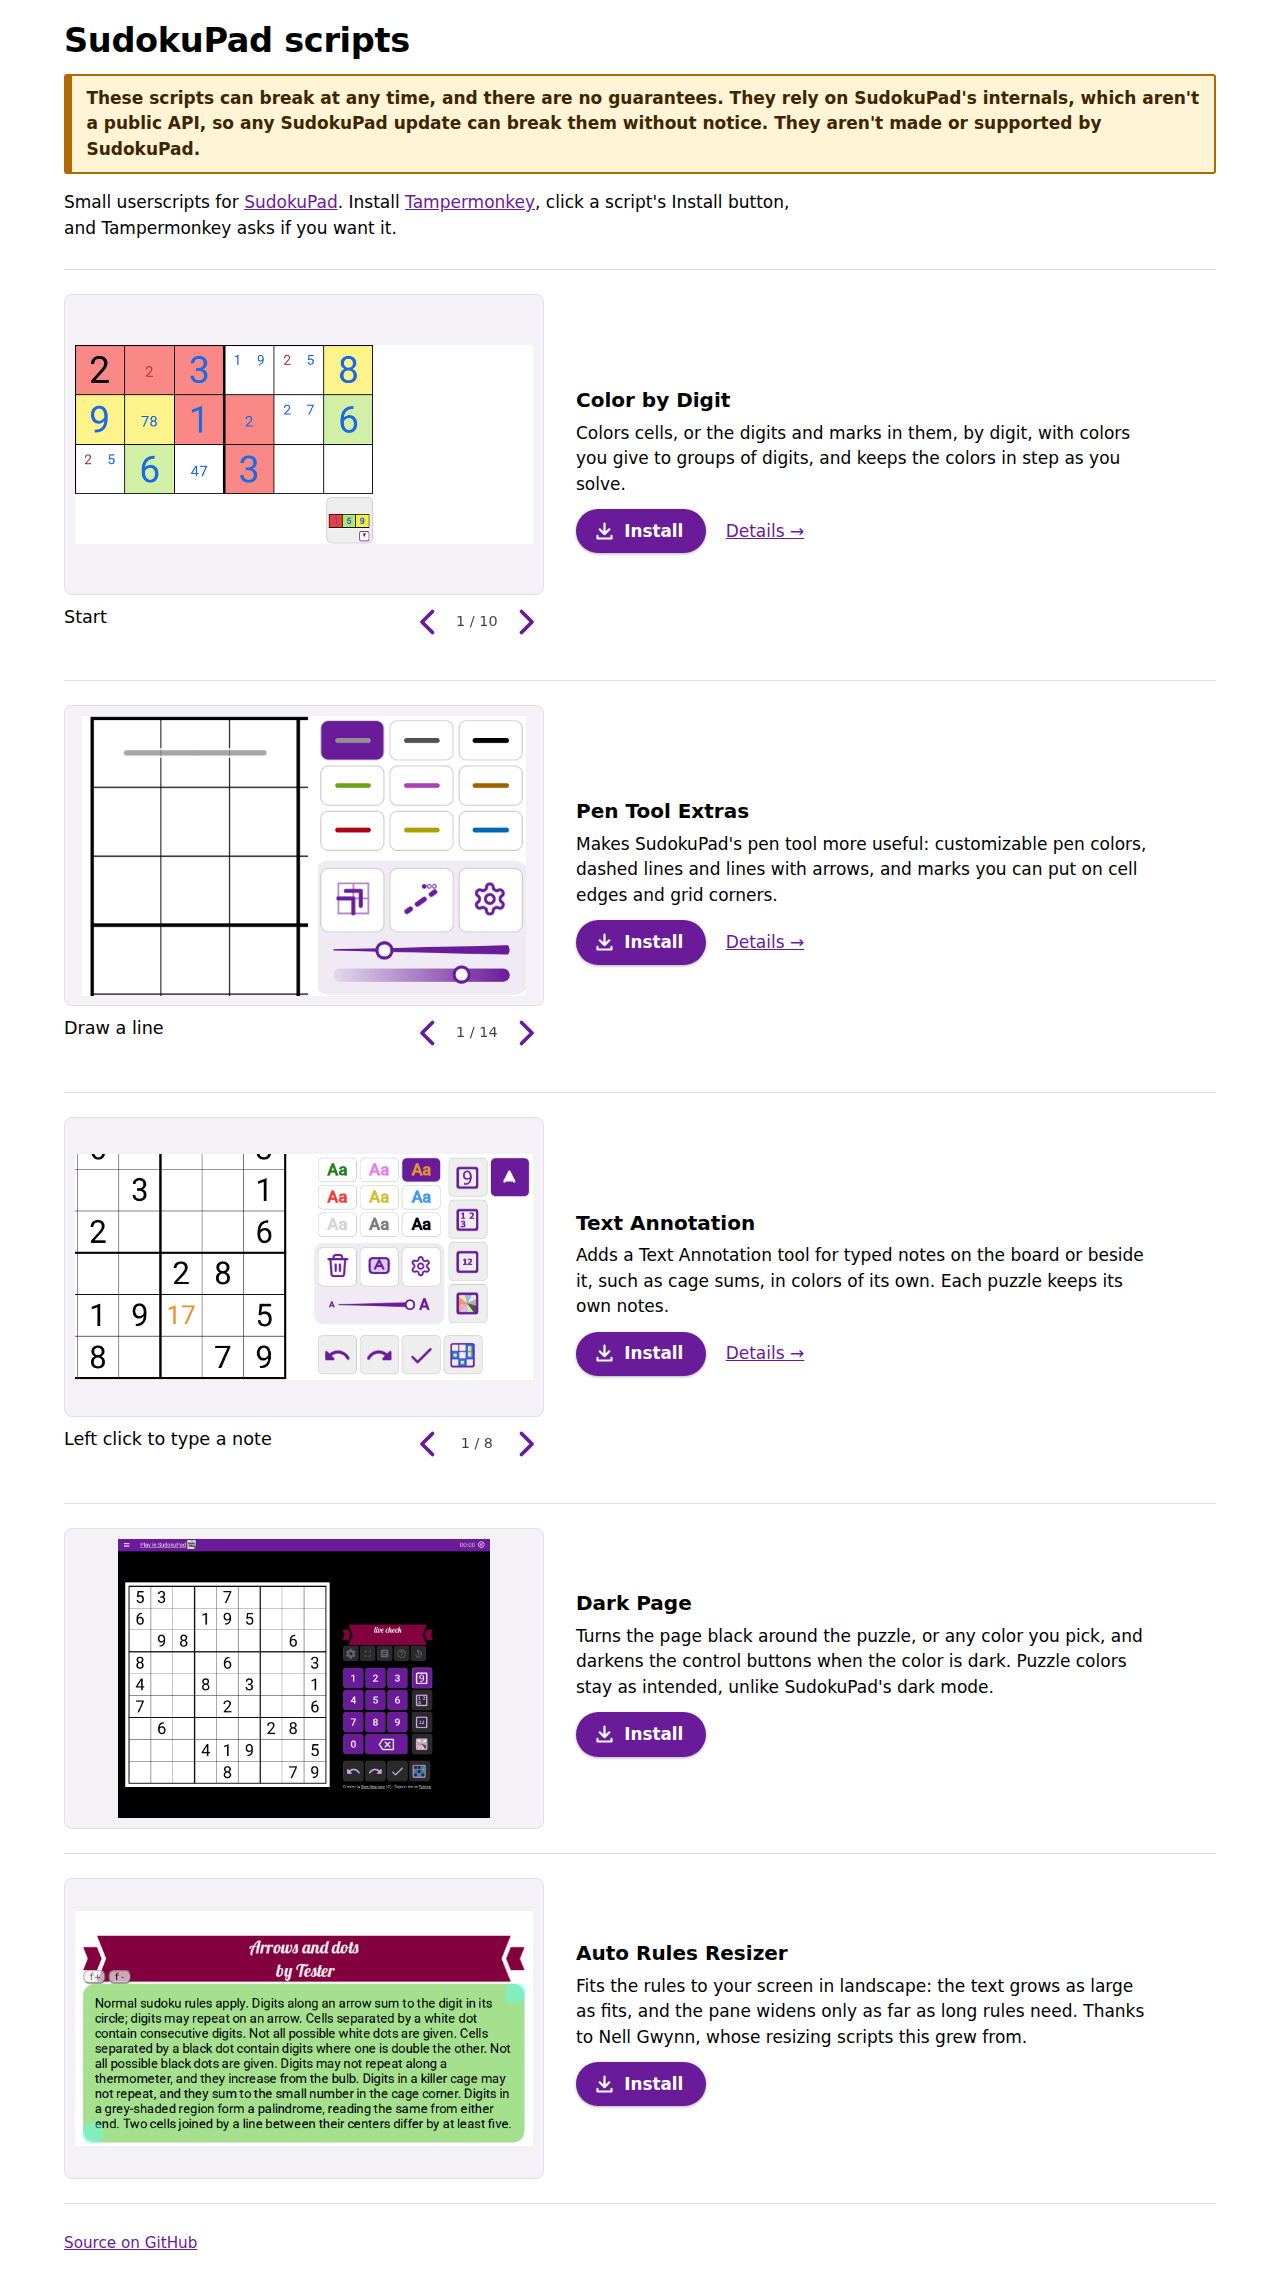
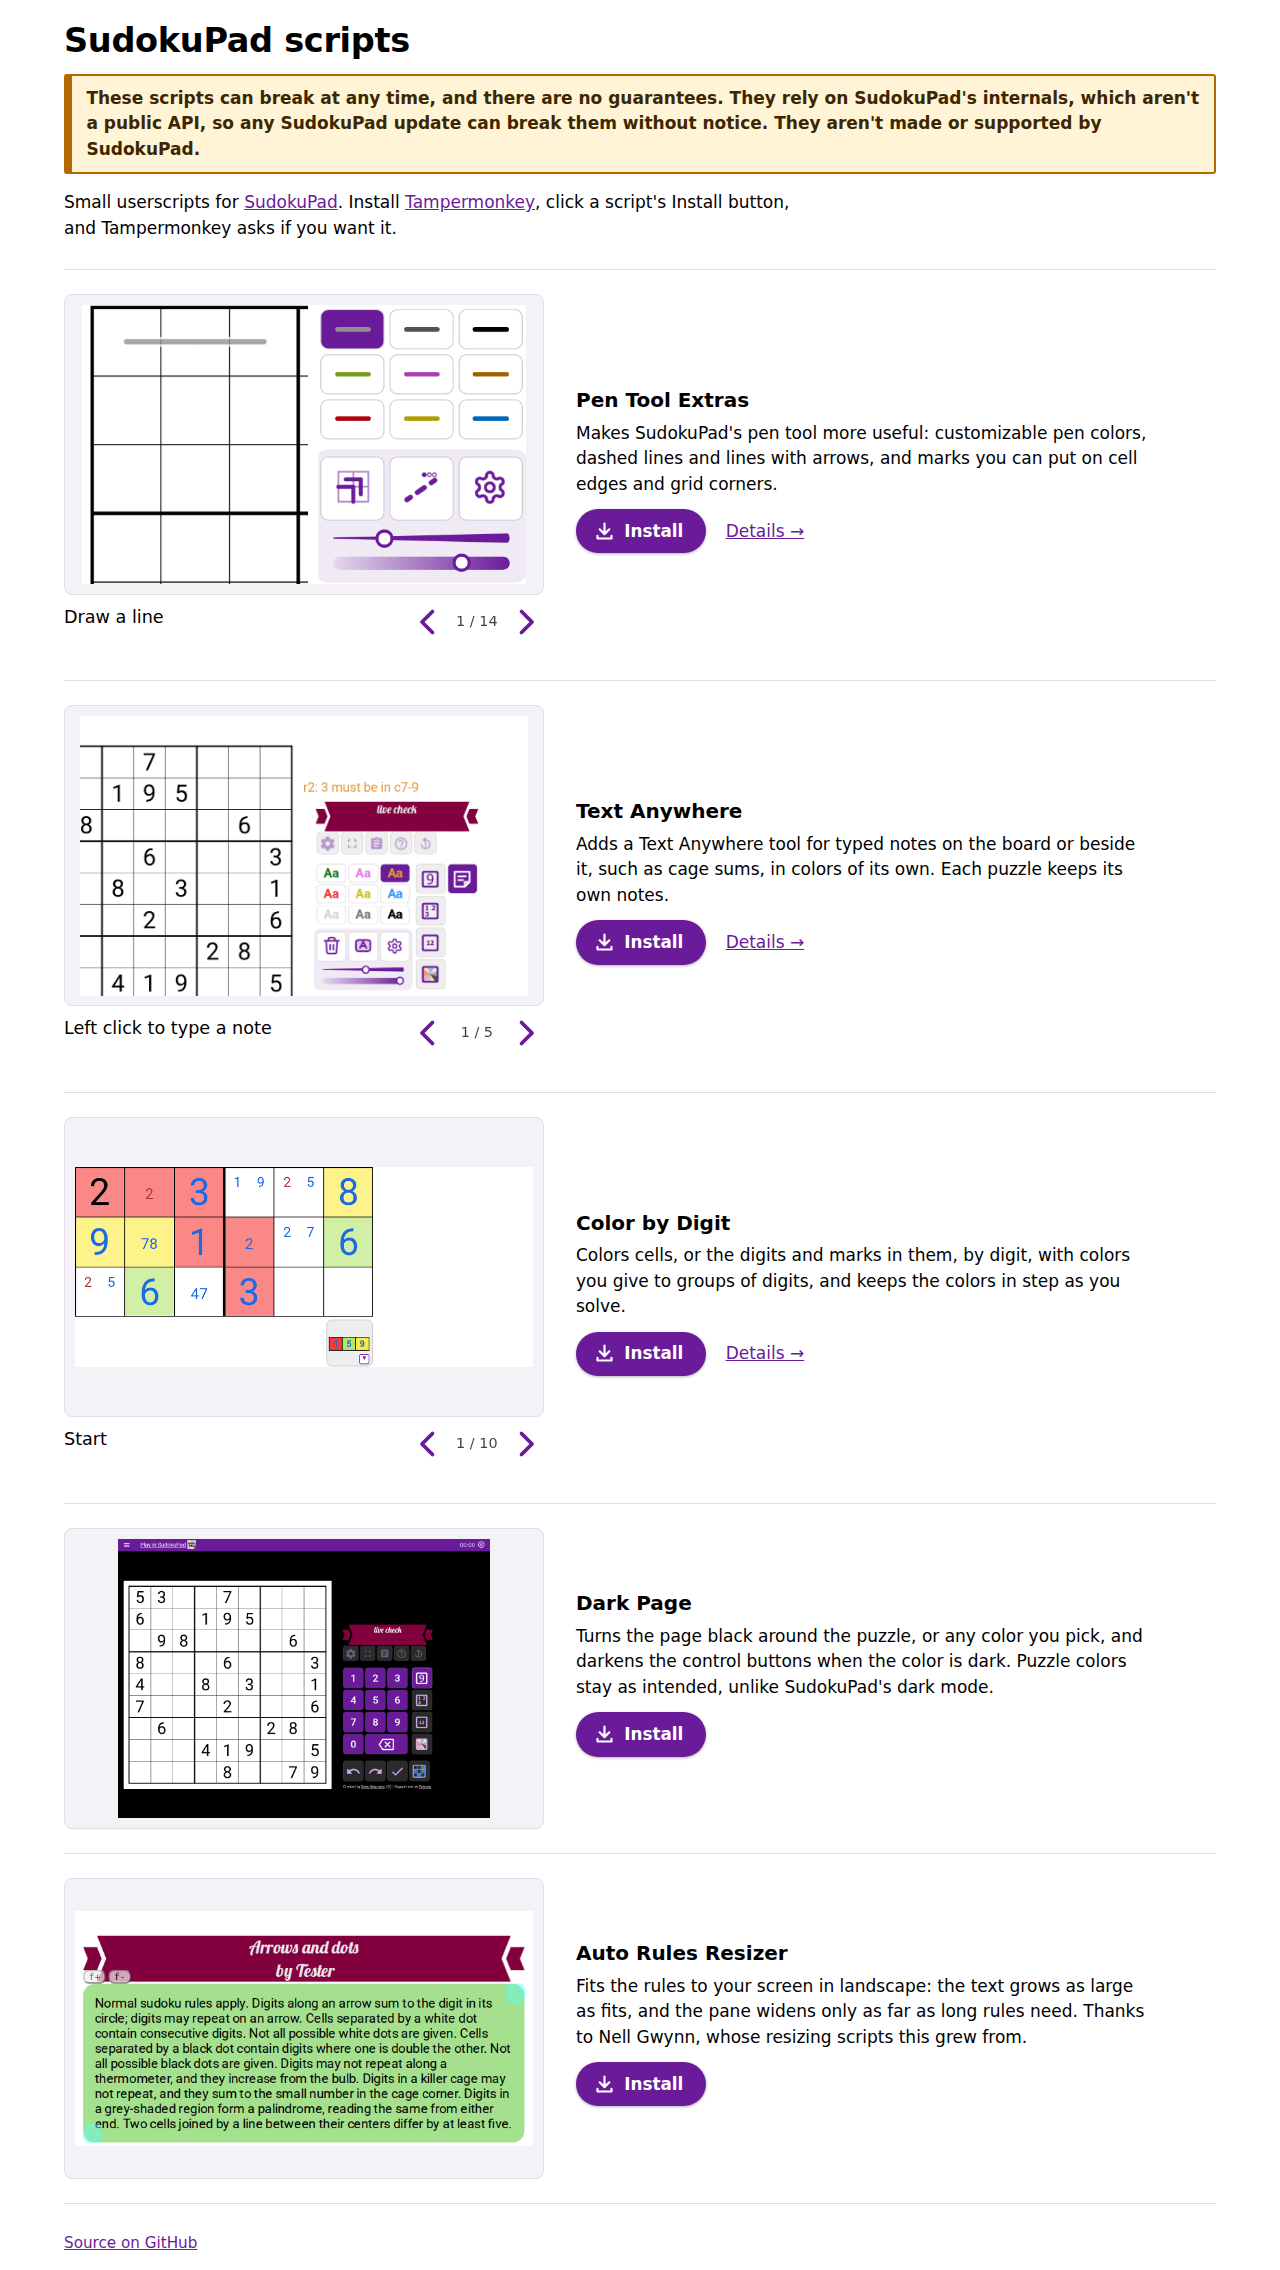
Homepage: Pen Tool Extras and Text Anywhere rows before Color by Digit (#472) (#474)
* Homepage: Pen Tool Extras and Text Anywhere rows before Color by Digit

Move only; each row's content is unchanged. The row-order test lists the new order, and the homepage research picture is retaken.

Closes #472

* Homepage row order: update the spec 359 closing test and the slideshow live test

Closes #472

---------

diff --git a/site/index.html b/site/index.html
@@ -27,41 +27,6 @@
   <section class="row">
     <div class="slideshow">
       <div class="slide-frame">
-        <img class="slide current" src="https://raw.githubusercontent.com/caneff/sudokupad-scripts/main/docs/research/color-by-digit/color-by-digit-slide-1-start.png?v=f6a94da" alt="The two boxes in Cell mode, with the Color by Digit button under them" width="900" height="391">
-        <img class="slide" src="https://raw.githubusercontent.com/caneff/sudokupad-scripts/main/docs/research/color-by-digit/color-by-digit-slide-2-type.png?v=f38cd81" alt="A 1 typed in an empty cell, which fills with the red of its group" width="900" height="391">
-        <img class="slide" src="https://raw.githubusercontent.com/caneff/sudokupad-scripts/main/docs/research/color-by-digit/color-by-digit-slide-3-marks.png?v=031739b" alt="Center marks 7 and 9 typed into the next cell, which fills with the yellow of their group" width="900" height="391">
-        <img class="slide" src="https://raw.githubusercontent.com/caneff/sudokupad-scripts/main/docs/research/color-by-digit/color-by-digit-slide-4-add.png?v=8175133" alt="A center mark 2 added to the same cell, from another group, so the fill goes" width="900" height="391">
-        <img class="slide" src="https://raw.githubusercontent.com/caneff/sudokupad-scripts/main/docs/research/color-by-digit/color-by-digit-slide-5-digit.png?v=586f108" alt="Digit mode: no cell is filled, digits and marks are in darker shades of their group colors, and the three marks that repeat the given 2 each have a red circle" width="900" height="391">
-        <img class="slide" src="https://raw.githubusercontent.com/caneff/sudokupad-scripts/main/docs/research/color-by-digit/color-by-digit-slide-6-both.png?v=f35be18" alt="Both mode: the cells filled and the digits and marks in darker shades" width="900" height="391">
-        <img class="slide" src="https://raw.githubusercontent.com/caneff/sudokupad-scripts/main/docs/research/color-by-digit/color-by-digit-slide-7-off.png?v=3bd156e" alt="Off mode: the plain boxes" width="900" height="391">
-        <img class="slide" src="https://raw.githubusercontent.com/caneff/sudokupad-scripts/main/docs/research/color-by-digit/color-by-digit-slide-8-menu.png?v=41bdb9f" alt="The profile menu open beside the boxes, listing Entropic, no blue and Modular and Edit profiles" width="900" height="391">
-        <img class="slide" src="https://raw.githubusercontent.com/caneff/sudokupad-scripts/main/docs/research/color-by-digit/color-by-digit-slide-9-modular.png?v=8cf8e46" alt="Modular picked: the boxes recolored in its orange, pink and yellow groups" width="900" height="391">
-        <img class="slide" src="https://raw.githubusercontent.com/caneff/sudokupad-scripts/main/docs/research/color-by-digit/color-by-digit-slide-10-split.png?v=c234eb6" alt="Both mode with the cells filled in the first profile's red, green and yellow, and the digits and marks shaded in Modular's olive, purple and brown" width="900" height="391">
-      </div>
-      <div class="slide-bar">
-        <div class="slide-captions">
-        <p class="slide-caption current">Start</p>
-        <p class="slide-caption">Type a 1</p>
-        <p class="slide-caption">Center marks 7 and 9</p>
-        <p class="slide-caption">Add a center mark 2</p>
-        <p class="slide-caption">Digit</p>
-        <p class="slide-caption">Both</p>
-        <p class="slide-caption">Off</p>
-        <p class="slide-caption">Open the profile menu</p>
-        <p class="slide-caption">Pick Modular</p>
-        <p class="slide-caption">Cells from one profile, digits from another</p>
-        </div>
-      </div>
-    </div>
-    <div class="row-text">
-      <h2>Color by Digit</h2>
-      <p>Colors cells, or the digits and marks in them, by digit, with colors you give to groups of digits, and keeps the colors in step as you solve.</p>
-      <p class="actions"><a class="install" href="https://raw.githubusercontent.com/caneff/sudokupad-scripts/main/color-by-digit.user.js">Install<span class="visually-hidden"> Color by Digit</span></a><a class="more" href="color-by-digit.html">Details &rarr;</a></p>
-    </div>
-  </section>
-  <section class="row">
-    <div class="slideshow">
-      <div class="slide-frame">
         <img class="slide current" src="https://raw.githubusercontent.com/caneff/sudokupad-scripts/main/docs/research/pen-tool-extras/pen-tool-extras-slide-1-line.png?v=763ec7e" alt="A gray line drawn across the top row of the board, with the pen panel beside it" width="684" height="430">
         <img class="slide" src="https://raw.githubusercontent.com/caneff/sudokupad-scripts/main/docs/research/pen-tool-extras/pen-tool-extras-slide-2-hold.png?v=248d22c" alt="A red ring on the first pen color button, which a hold has turned into an edit mode: every pen button shows a color picker" width="684" height="430">
         <img class="slide" src="https://raw.githubusercontent.com/caneff/sudokupad-scripts/main/docs/research/pen-tool-extras/pen-tool-extras-slide-3-color.png?v=f93f5e1" alt="The first pen button and the line recolored to teal, with a color picker still on every pen button" width="684" height="430">
@@ -125,6 +90,41 @@
       <h2>Text Anywhere</h2>
       <p>Adds a Text Anywhere tool for typed notes on the board or beside it, such as cage sums, in colors of its own. Each puzzle keeps its own notes.</p>
       <p class="actions"><a class="install" href="https://raw.githubusercontent.com/caneff/sudokupad-scripts/main/draw-tool.user.js">Install<span class="visually-hidden"> Text Anywhere</span></a><a class="more" href="draw-tool.html">Details &rarr;</a></p>
+    </div>
+  </section>
+  <section class="row">
+    <div class="slideshow">
+      <div class="slide-frame">
+        <img class="slide current" src="https://raw.githubusercontent.com/caneff/sudokupad-scripts/main/docs/research/color-by-digit/color-by-digit-slide-1-start.png?v=f6a94da" alt="The two boxes in Cell mode, with the Color by Digit button under them" width="900" height="391">
+        <img class="slide" src="https://raw.githubusercontent.com/caneff/sudokupad-scripts/main/docs/research/color-by-digit/color-by-digit-slide-2-type.png?v=f38cd81" alt="A 1 typed in an empty cell, which fills with the red of its group" width="900" height="391">
+        <img class="slide" src="https://raw.githubusercontent.com/caneff/sudokupad-scripts/main/docs/research/color-by-digit/color-by-digit-slide-3-marks.png?v=031739b" alt="Center marks 7 and 9 typed into the next cell, which fills with the yellow of their group" width="900" height="391">
+        <img class="slide" src="https://raw.githubusercontent.com/caneff/sudokupad-scripts/main/docs/research/color-by-digit/color-by-digit-slide-4-add.png?v=8175133" alt="A center mark 2 added to the same cell, from another group, so the fill goes" width="900" height="391">
+        <img class="slide" src="https://raw.githubusercontent.com/caneff/sudokupad-scripts/main/docs/research/color-by-digit/color-by-digit-slide-5-digit.png?v=586f108" alt="Digit mode: no cell is filled, digits and marks are in darker shades of their group colors, and the three marks that repeat the given 2 each have a red circle" width="900" height="391">
+        <img class="slide" src="https://raw.githubusercontent.com/caneff/sudokupad-scripts/main/docs/research/color-by-digit/color-by-digit-slide-6-both.png?v=f35be18" alt="Both mode: the cells filled and the digits and marks in darker shades" width="900" height="391">
+        <img class="slide" src="https://raw.githubusercontent.com/caneff/sudokupad-scripts/main/docs/research/color-by-digit/color-by-digit-slide-7-off.png?v=3bd156e" alt="Off mode: the plain boxes" width="900" height="391">
+        <img class="slide" src="https://raw.githubusercontent.com/caneff/sudokupad-scripts/main/docs/research/color-by-digit/color-by-digit-slide-8-menu.png?v=41bdb9f" alt="The profile menu open beside the boxes, listing Entropic, no blue and Modular and Edit profiles" width="900" height="391">
+        <img class="slide" src="https://raw.githubusercontent.com/caneff/sudokupad-scripts/main/docs/research/color-by-digit/color-by-digit-slide-9-modular.png?v=8cf8e46" alt="Modular picked: the boxes recolored in its orange, pink and yellow groups" width="900" height="391">
+        <img class="slide" src="https://raw.githubusercontent.com/caneff/sudokupad-scripts/main/docs/research/color-by-digit/color-by-digit-slide-10-split.png?v=c234eb6" alt="Both mode with the cells filled in the first profile's red, green and yellow, and the digits and marks shaded in Modular's olive, purple and brown" width="900" height="391">
+      </div>
+      <div class="slide-bar">
+        <div class="slide-captions">
+        <p class="slide-caption current">Start</p>
+        <p class="slide-caption">Type a 1</p>
+        <p class="slide-caption">Center marks 7 and 9</p>
+        <p class="slide-caption">Add a center mark 2</p>
+        <p class="slide-caption">Digit</p>
+        <p class="slide-caption">Both</p>
+        <p class="slide-caption">Off</p>
+        <p class="slide-caption">Open the profile menu</p>
+        <p class="slide-caption">Pick Modular</p>
+        <p class="slide-caption">Cells from one profile, digits from another</p>
+        </div>
+      </div>
+    </div>
+    <div class="row-text">
+      <h2>Color by Digit</h2>
+      <p>Colors cells, or the digits and marks in them, by digit, with colors you give to groups of digits, and keeps the colors in step as you solve.</p>
+      <p class="actions"><a class="install" href="https://raw.githubusercontent.com/caneff/sudokupad-scripts/main/color-by-digit.user.js">Install<span class="visually-hidden"> Color by Digit</span></a><a class="more" href="color-by-digit.html">Details &rarr;</a></p>
     </div>
   </section>
   <section class="row">

diff --git a/test/specs/spec-359-closing.test.js b/test/specs/spec-359-closing.test.js
@@ -54,7 +54,7 @@ test('spec 359: the homepage is rows of slideshows, the details pages carry the 
   // Homepage: one row per script in order, with No Tab Letters off the site and the script kept in the repo.
   const home = read('index.html')
   const rows = rowsOf(home)
-  assert.deepEqual(rows.map((r) => r.match(/<h2>([^<]*)<\/h2>/)[1]), ['Color by Digit', 'Pen Tool Extras', 'Text Anywhere', 'Dark Page', 'Auto Rules Resizer'])
+  assert.deepEqual(rows.map((r) => r.match(/<h2>([^<]*)<\/h2>/)[1]), ['Pen Tool Extras', 'Text Anywhere', 'Color by Digit', 'Dark Page', 'Auto Rules Resizer'])
   assert.equal(existsSync(join(ROOT, 'no-tab-letters.user.js')), true)
   for (const name of readdirSync(SITE).filter((f) => f.endsWith('.html'))) assert.doesNotMatch(read(name), /no-tab-letters|No Tab Letters/i, name)
   assert.match(home, /\.row \{[^}]*grid-template-columns: 30rem 1fr/)
@@ -64,7 +64,7 @@ test('spec 359: the homepage is rows of slideshows, the details pages carry the 
     assert.equal(imgsOf(row).length, 1)
     assert.doesNotMatch(row, /slideshow|slide-caption/)
   }
-  const details = { 'Color by Digit': 'color-by-digit.html', 'Pen Tool Extras': 'pen-tool-extras.html', 'Text Anywhere': 'draw-tool.html' }
+  const details = { 'Pen Tool Extras': 'pen-tool-extras.html', 'Text Anywhere': 'draw-tool.html', 'Color by Digit': 'color-by-digit.html' }
   rows.slice(0, 3).forEach((row, i) => {
     const heading = Object.keys(details)[i]
     const show = showOf(row)

diff --git a/test/site.test.js b/test/site.test.js
@@ -200,7 +200,7 @@ test(`${HOME} describes Pen Tool Extras by what it adds, not by its sliders`, ()
 
 // One row per script, in this order; Details only where a details page exists; a script whose file name is not its shown name gives the file name third.
 const ROWS = [
-  ['Color by Digit', CBD], ['Pen Tool Extras', DETAILS], ['Text Anywhere', DRAW, 'draw-tool'], ['Dark Page', undefined], ['Auto Rules Resizer', undefined]
+  ['Pen Tool Extras', DETAILS], ['Text Anywhere', DRAW, 'draw-tool'], ['Color by Digit', CBD], ['Dark Page', undefined], ['Auto Rules Resizer', undefined]
 ]
 const rowsOf = html => html.split('<section class="row">').slice(1)
 
